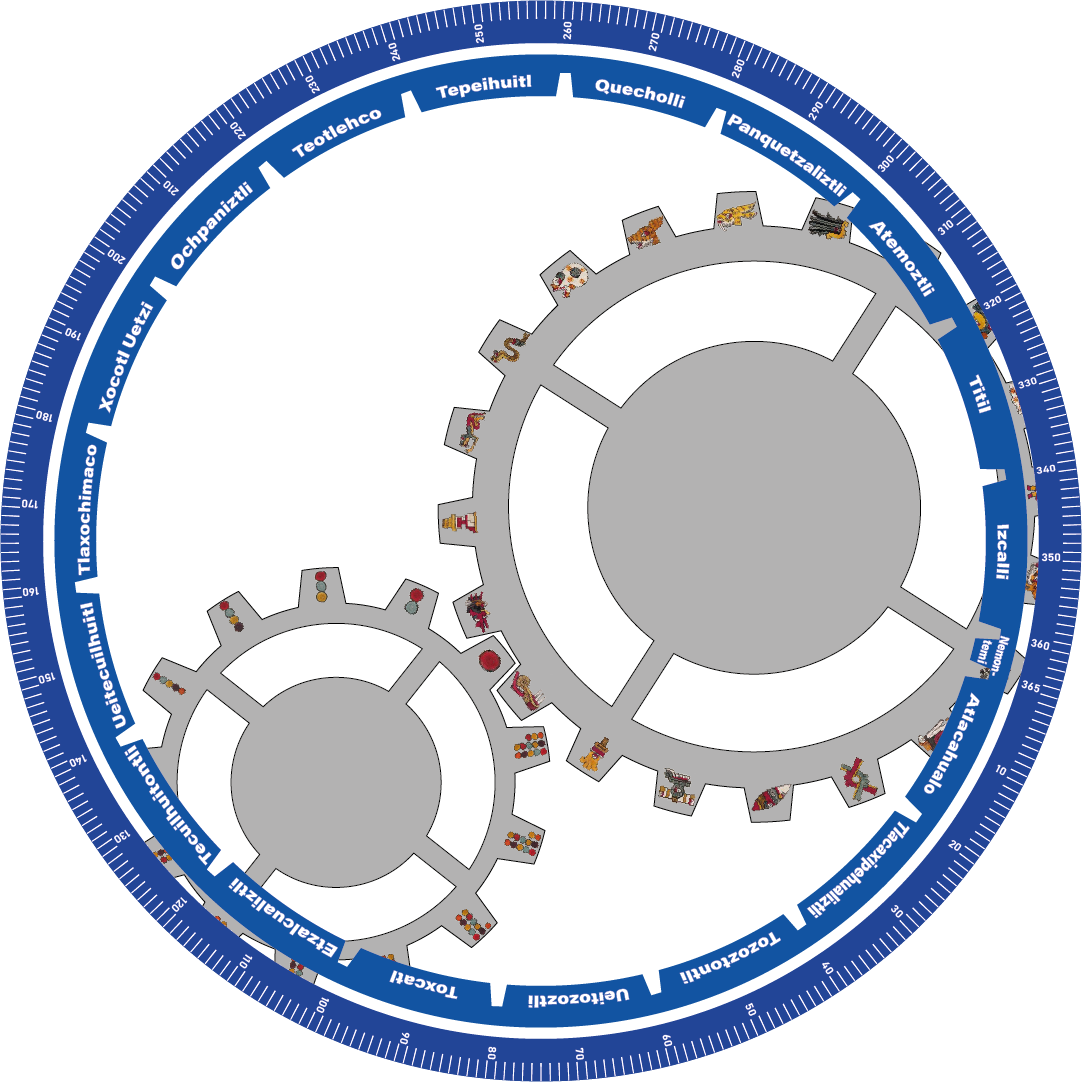
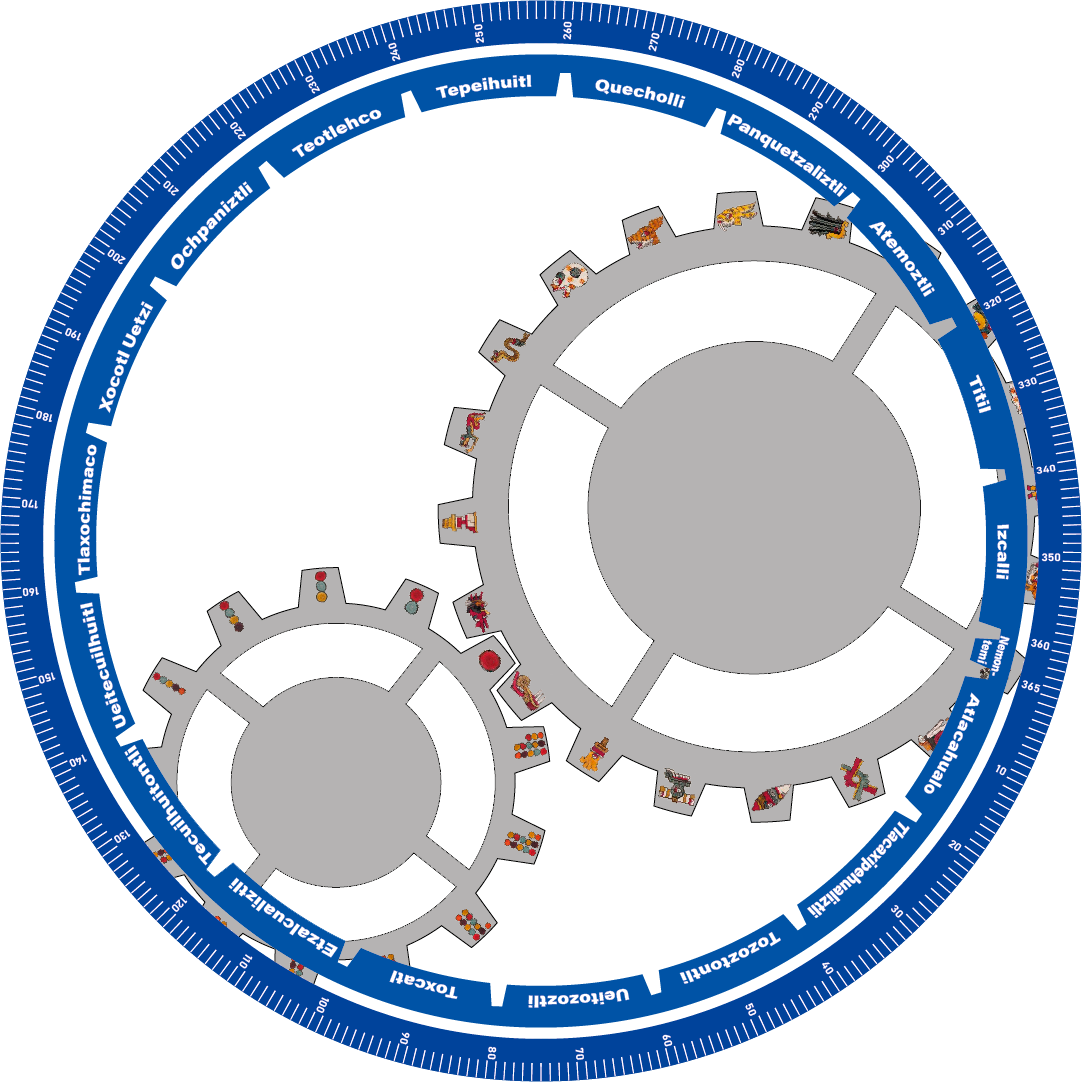
engranes giratorios

Changed region(s): [[0.0, 0.0, 1.0, 1.0]]

diff --git a/src/components/pages/CalendarioGiratorio.jsx b/src/components/pages/CalendarioGiratorio.jsx
@@ -1,4 +1,4 @@
-import React, { useEffect, useState } from 'react';
+import React, { useEffect, useState, useRef } from 'react';
 import { getImagePath } from '../funtions/funtions';
 
 const CalendarioGiratorio = ({ tonalliDiaMeza, veintenaMeza, ritualDay }) => {
@@ -12,17 +12,41 @@ const CalendarioGiratorio = ({ tonalliDiaMeza, veintenaMeza, ritualDay }) => {
         }
     }, [tonalliDiaMeza, veintenaMeza, ritualDay]);
 
+    // Lógica para Responsividad por Escala
+    const [scale, setScale] = useState(1);
+    const containerRef = useRef(null);
+
+    useEffect(() => {
+        const handleResize = () => {
+            if (containerRef.current) {
+                const width = containerRef.current.offsetWidth;
+                const newScale = Math.min(width / 550, 1);
+                setScale(newScale);
+            }
+        };
+        handleResize();
+        window.addEventListener('resize', handleResize);
+        return () => window.removeEventListener('resize', handleResize);
+    }, []);
+
     // 365.png: Gira a la derecha (CW). 365 días.
     const angle365 = ritualDay ? (ritualDay - 1) * (360 / 365) : 0;
 
-    // veintenas2026.png: Gira a la izquierda (CCW).
-    const angleVeintenas = ritualDay ? -(ritualDay - 1) * (360 / 365) : 0;
+    // veintenas.png: Gira a la derecha (CW).
+    const angleVeintenas = ritualDay ? (ritualDay - 1) * (360 / 365) : 0;
 
-    // Engrane 13: Gira a la derecha (CW).
-    const numeroT = tonalliDiaMeza ? tonalliDiaMeza.numeroT.español : 1;
-    const angle13 = tonalliDiaMeza ? (parseInt(numeroT) - 1) * (360 / 13) : 0;
+    // Engrane 13: Gira a la derecha (CW). 195px.
+    const numberM = ["1", "2", "3", "4", "5", "6", "7", "8", "9", "10", "11", "12", "13"]
 
-    // Engrane 20: Gira a la izquierda (CCW).
+    const numeroT = tonalliDiaMeza ? tonalliDiaMeza.numeroT.español : "1";
+    const numeroIndex = numberM.indexOf(numeroT)
+    // Calibración final corregida: Base 356.8° (Ajustado para nueva posición (69,45) y Tonalli 12-Lagartija)
+    //const angle13 = tonalliDiaMeza ? 243.8 - (parseInt(numeroT) - 1) * (360 / 13) : 0;
+    const angle13 = tonalliDiaMeza ? 300.8 - (numeroIndex * (360 / 13)) : 0;
+
+    //const angle13 = tonalliDiaMeza ? 301.4 - (parseInt(numeroT) - 1) * (360 / 13) : 0;
+
+    // Engrane 20: Gira a la izquierda (CCW). 300px.
     const signos = [
         "Lagarto", "Viento", "Casa", "Lagartija", "Serpiente",
         "Muerte", "Venado", "Conejo", "Agua", "Perro",
@@ -31,10 +55,13 @@ const CalendarioGiratorio = ({ tonalliDiaMeza, veintenaMeza, ritualDay }) => {
     ];
     const signoName = tonalliDiaMeza ? tonalliDiaMeza.signoT.español : "Lagarto";
     const signoIndex = signos.indexOf(signoName);
-    const angle20 = tonalliDiaMeza ? -(signoIndex * (360 / 20)) : 0;
+    // Calibración final corregida: Base 358.1° (Ajustado tras confirmación visual de desfase de 13 dientes)
+    const angle20 = tonalliDiaMeza ? 358.1 - (signoIndex * (360 / 20)) : 0;
+    // Calibración final corregida: Base 304.1° (Ajustado para nueva posición (69,45) y Tonalli 12-Lagartija)
+    //const angle20 = tonalliDiaMeza ? 304.1 - (signoIndex * (360 / 20)) : 0;
 
     return (
-        <div className="calendar-visual-container mt-4 p-5 rounded-5" style={{
+        <div ref={containerRef} className="calendar-visual-container mt-4 p-2 p-md-4 rounded-5" style={{
             background: 'linear-gradient(145deg, #0f0f1a 0%, #1a1a2e 100%)',
             boxShadow: 'inset 0 0 50px rgba(0,0,0,0.5), 0 20px 50px rgba(0,0,0,0.7)',
             border: '2px solid rgba(255, 255, 255, 0.05)',
@@ -43,110 +70,39 @@ const CalendarioGiratorio = ({ tonalliDiaMeza, veintenaMeza, ritualDay }) => {
             alignItems: 'center',
             justifyContent: 'center',
             transition: 'all 0.5s ease',
-            position: 'relative'
+            position: 'relative',
+            width: '100%',
+            maxWidth: '600px',
+            margin: '0 auto',
+            overflow: 'hidden',
+            minHeight: `${560 * scale}px`
         }}>
-            <div className="decorations" style={{ position: 'absolute', width: '100%', height: '100%', pointerEvents: 'none' }}>
-                <div style={{ position: 'absolute', top: '10px', left: '10px', width: '20px', height: '20px', borderLeft: '2px solid gold', borderTop: '2px solid gold', opacity: 0.3 }}></div>
-                <div style={{ position: 'absolute', bottom: '10px', right: '10px', width: '20px', height: '20px', borderRight: '2px solid gold', borderBottom: '2px solid gold', opacity: 0.3 }}></div>
-            </div>
-
-            <div className="calendar-rings-wrapper" style={{
+            {/* Contenedor Escalable */}
+            <div style={{
+                transform: `scale(${scale})`,
+                transformOrigin: 'top center',
+                width: '500px',
+                height: '500px',
                 position: 'relative',
-                width: '450px',
-                height: '450px',
-                display: 'flex',
-                alignItems: 'center',
-                justifyContent: 'center'
+                transition: 'transform 0.3s ease'
             }}>
-
-                {/* Luz de fondo en el centro */}
-                <div style={{
-                    position: 'absolute',
-                    width: '300px',
-                    height: '300px',
-                    background: 'radial-gradient(circle, rgba(255, 215, 0, 0.1) 0%, transparent 70%)',
-                    zIndex: 0
-                }}></div>
-
-                {/* Anillo 365 - Gira Derecha */}
-                <div className={`ring ring-365 ${isSpinning ? 'spinning-right' : ''}`} style={{
+                {/* Engranes Centrales - DETRÁS */}
+                <div className="gears-container" style={{
                     position: 'absolute',
                     width: '100%',
                     height: '100%',
-                    transform: isSpinning ? '' : `rotate(${angle365}deg)`,
-                    transition: 'transform 3s cubic-bezier(0.23, 1, 0.32, 1)',
-                    zIndex: 1,
-                    filter: 'drop-shadow(0 0 10px rgba(0,0,0,0.5))'
-                }}>
-                    <img src={getImagePath('365.png')} alt="Ciclo 365" style={{ width: '100%', height: '100%', objectFit: 'contain' }} />
-                </div>
-
-                {/* Anillo Veintenas - Gira Izquierda */}
-                <div className={`ring ring-veintenas ${isSpinning ? 'spinning-left' : ''}`} style={{
-                    position: 'absolute',
-                    width: '78%',
-                    height: '78%',
-                    transform: isSpinning ? '' : `rotate(${angleVeintenas}deg)`,
-                    transition: 'transform 3.5s cubic-bezier(0.23, 1, 0.32, 1)',
-                    zIndex: 2,
-                    filter: 'drop-shadow(0 0 15px rgba(0,0,0,0.6))'
-                }}>
-                    <img src={getImagePath('veintenas2026.png')} alt="Veintenas" style={{ width: '100%', height: '100%', objectFit: 'contain' }} />
-                </div>
-
-                {/* Engranes Centrales */}
-                <div className="gears-container" style={{
-                    position: 'absolute',
-                    width: '45%',
-                    height: '45%',
-                    zIndex: 3,
-                    display: 'flex',
-                    alignItems: 'center',
-                    justifyContent: 'center',
+                    zIndex: 0,
                     perspective: '1000px'
                 }}>
-                    {/* Engrane 13 - Gira Derecha */}
-                    <div className="gear-wrapper" style={{ position: 'relative', width: '130px', height: '130px', marginRight: '-12px' }}>
-                        <div className={`gear gear-13-visual ${isSpinning ? 'spinning-right' : ''}`} style={{
-                            width: '100%',
-                            height: '100%',
-                            transform: isSpinning ? '' : `rotate(${angle13}deg)`,
-                            transition: 'transform 2.5s cubic-bezier(0.19, 1, 0.22, 1)',
-                            position: 'relative'
-                        }}>
-                            <img src={getImagePath('engrane13-20.png')} alt="Gear 13" style={{
-                                width: '200%',
-                                height: '100%',
-                                objectFit: 'cover',
-                                objectPosition: 'left',
-                                borderRadius: '50%'
-                            }} />
-                        </div>
-                        {/* Centro del engrane 13 */}
-                        {!isSpinning && tonalliDiaMeza && (
-                            <div className="gear-center" style={{
-                                position: 'absolute',
-                                top: '50%',
-                                left: '50%',
-                                transform: 'translate(-50%, -50%)',
-                                width: '50px',
-                                height: '50px',
-                                backgroundColor: 'rgba(0,0,0,0.7)',
-                                borderRadius: '50%',
-                                border: '1px solid gold',
-                                display: 'flex',
-                                alignItems: 'center',
-                                justifyContent: 'center',
-                                zIndex: 4,
-                                boxShadow: '0 0 15px gold'
-                            }}>
-                                <img src={tonalliDiaMeza.numberTonalImage} alt="Num" style={{ width: '80%' }} />
-                            </div>
-                        )}
-                    </div>
-
-                    {/* Engrane 20 - Gira Izquierda */}
-                    <div className="gear-wrapper" style={{ position: 'relative', width: '170px', height: '170px', marginLeft: '-12px' }}>
+                    {/* Engrane 20 - Derecha / Centro */}
+                    <div className="gear-wrapper" style={{
+                        position: 'absolute',
+                        width: '300px',
+                        height: '300px',
+                        top: '45%',
+                        left: '69%',
+                        transform: 'translate(-50%, -50%)'
+                    }}>
                         <div className={`gear gear-20-visual ${isSpinning ? 'spinning-left' : ''}`} style={{
                             width: '100%',
                             height: '100%',
@@ -154,65 +110,112 @@ const CalendarioGiratorio = ({ tonalliDiaMeza, veintenaMeza, ritualDay }) => {
                             transition: 'transform 2.8s cubic-bezier(0.19, 1, 0.22, 1)',
                             position: 'relative'
                         }}>
-                            <img src={getImagePath('engrane13-20.png')} alt="Gear 20" style={{
-                                width: '200%',
+                            <img src={getImagePath('engrane20-002.png')} alt="Gear 20" style={{
+                                width: '100%',
                                 height: '100%',
-                                objectFit: 'cover',
-                                objectPosition: 'right',
-                                borderRadius: '50%'
+                                objectFit: 'contain',
+                                opacity: 0.85
                             }} />
                         </div>
-                        {/* Centro del engrane 20 */}
                         {!isSpinning && tonalliDiaMeza && (
                             <div className="gear-center" style={{
-                                position: 'absolute',
-                                top: '50%',
-                                left: '50%',
-                                transform: 'translate(-50%, -50%)',
-                                width: '60px',
-                                height: '60px',
-                                backgroundColor: 'rgba(0,0,0,0.7)',
-                                borderRadius: '50%',
-                                border: '1px solid gold',
-                                display: 'flex',
-                                alignItems: 'center',
-                                justifyContent: 'center',
-                                zIndex: 4,
-                                boxShadow: '0 0 15px gold'
+                                position: 'absolute', top: '50%', left: '50%', transform: 'translate(-50%, -50%)',
+                                width: '80px', height: '80px', backgroundColor: 'rgba(0,0,0,0.7)',
+                                borderRadius: '50%', border: '1px solid rgba(255,215,0,0.5)',
+                                display: 'flex', alignItems: 'center', justifyContent: 'center', zIndex: 10
                             }}>
-                                <img src={tonalliDiaMeza.signTonalImage} alt="Sign" style={{ width: '80%' }} />
+                                <img src={tonalliDiaMeza.signTonalImage} alt="Sign" style={{ width: '85%' }} />
+                            </div>
+                        )}
+                    </div>
+
+                    {/* Engrane 13 - Izquierda / Abajo */}
+                    <div className="gear-wrapper" style={{
+                        position: 'absolute',
+                        width: '195px',
+                        height: '195px',
+                        top: '72%',
+                        left: '32%',
+                        transform: 'translate(-50%, -50%)'
+                    }}>
+                        <div className={`gear gear-13-visual ${isSpinning ? 'spinning-right' : ''}`} style={{
+                            width: '100%',
+                            height: '100%',
+                            transform: isSpinning ? '' : `rotate(${angle13}deg)`,
+                            transition: 'transform 2.5s cubic-bezier(0.19, 1, 0.22, 1)',
+                            position: 'relative'
+                        }}>
+                            <img src={getImagePath('engrane13-002.png')} alt="Gear 13" style={{
+                                width: '100%',
+                                height: '100%',
+                                objectFit: 'contain',
+                                opacity: 0.85
+                            }} />
+                        </div>
+                        {!isSpinning && tonalliDiaMeza && (
+                            <div className="gear-center" style={{
+                                position: 'absolute', top: '50%', left: '50%', transform: 'translate(-50%, -50%)',
+                                width: '65px', height: '65px', backgroundColor: 'rgba(0,0,0,0.7)',
+                                borderRadius: '50%', border: '1px solid rgba(255,215,0,0.5)',
+                                display: 'flex', alignItems: 'center', justifyContent: 'center', zIndex: 10
+                            }}>
+                                <img src={tonalliDiaMeza.numberTonalImage} alt="Num" style={{ width: '85%' }} />
                             </div>
                         )}
                     </div>
                 </div>
 
-                {/* Marcador de intersección (opcional para visualización) */}
-                {!isSpinning && (
-                    <div className="intersection-glow" style={{
-                        position: 'absolute',
-                        top: '50%',
-                        left: '50%',
-                        width: '20px',
-                        height: '20px',
-                        background: 'radial-gradient(circle, white 0%, transparent 60%)',
-                        boxShadow: '0 0 20px white',
-                        borderRadius: '50%',
-                        zIndex: 10,
-                        transform: 'translate(-50%, -50%)',
-                        opacity: 0.6
+                {/* Anillos - DELANTE */}
+                <div className="calendar-rings-wrapper" style={{
+                    position: 'relative',
+                    width: '500px',
+                    height: '500px',
+                    display: 'flex',
+                    alignItems: 'center',
+                    justifyContent: 'center',
+                    zIndex: 5
+                }}>
+                    <div style={{
+                        position: 'absolute', width: '380px', height: '380px',
+                        background: 'radial-gradient(circle, rgba(255, 215, 0, 0.1) 0%, transparent 70%)',
+                        zIndex: 1
                     }}></div>
-                )}
+
+                    <div className={`ring ring-365 ${isSpinning ? 'spinning-right' : ''}`} style={{
+                        position: 'absolute', width: '100%', height: '100%',
+                        transform: isSpinning ? '' : `rotate(${angle365}deg)`,
+                        transition: 'transform 3s cubic-bezier(0.23, 1, 0.32, 1)',
+                        zIndex: 2
+                    }}>
+                        <img src={getImagePath('365.png')} alt="Ciclo 365" style={{ width: '100%', height: '100%', objectFit: 'contain' }} />
+                    </div>
+
+                    <div className={`ring ring-veintenas ${isSpinning ? 'spinning-right' : ''}`} style={{
+                        position: 'absolute', width: '88%', height: '88%',
+                        transform: isSpinning ? '' : `rotate(${angleVeintenas}deg)`,
+                        transition: 'transform 3.5s cubic-bezier(0.23, 1, 0.32, 1)',
+                        zIndex: 3
+                    }}>
+                        <img src={getImagePath('veintenas.png')} alt="Veintenas" style={{ width: '100%', height: '100%', objectFit: 'contain' }} />
+                    </div>
+
+                    {!isSpinning && (
+                        <div className="intersection-glow" style={{
+                            position: 'absolute', top: '72%', left: '32%', width: '60px', height: '60px',
+                            background: 'radial-gradient(circle, rgba(160, 142, 43, 0.6) 0%, transparent 50%)',
+                            boxShadow: '0 0 60px gold', borderRadius: '50%', zIndex: 15,
+                            transform: 'translate(-50%, -50%)', opacity: 0.5
+                        }}></div>
+                    )}
+                </div>
             </div>
 
-            {/* Info inferior con estilo premium */}
-            <div className="mt-4 text-center">
+            {/* Info inferior */}
+            <div className="mt-2 text-center" style={{ transform: `scale(${Math.max(scale, 0.8)})`, zIndex: 20 }}>
                 {!isSpinning && veintenaMeza ? (
-                    <div className="info-badge p-3 rounded-pill" style={{
-                        background: 'rgba(255, 255, 255, 0.05)',
-                        backdropFilter: 'blur(10px)',
-                        border: '1px solid rgba(255, 215, 0, 0.3)',
-                        boxShadow: '0 5px 15px rgba(0,0,0,0.3)',
-                        animation: 'fadeIn 1s ease'
+                    <div className="p-3 rounded-pill" style={{
+                        background: 'rgba(255, 255, 255, 0.05)', backdropFilter: 'blur(10px)',
+                        border: '1px solid rgba(255, 215, 0, 0.3)', boxShadow: '0 5px 15px rgba(0,0,0,0.3)',
                     }}>
                         <span style={{ color: 'gold', fontWeight: 'bold', fontSize: '1.2rem' }}>{veintenaMeza}</span>
                         <span style={{ color: '#fff', marginLeft: '15px', opacity: 0.8 }}>Día {ritualDay} / 365</span>
@@ -223,14 +226,6 @@ const CalendarioGiratorio = ({ tonalliDiaMeza, veintenaMeza, ritualDay }) => {
                     </div>
                 )}
             </div>
-
-            <style dangerouslySetInnerHTML={{
-                __html: `
-                @keyframes fadeIn {
-                    from { opacity: 0; transform: translateY(10px); }
-                    to { opacity: 1; transform: translateY(0); }
-                }
-            ` }} />
         </div>
     );
 };
